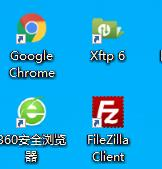
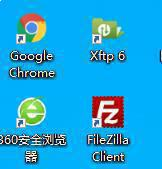
fmt.Printf("%s 级结束\n", strconv.Itoa(level))

diff --git a/main.go b/main.go
@@ -1,12 +1,20 @@
 package main
 
 import (
-	"crypto/md5"
-	"encoding/hex"
+	"bytes"
 	"fmt"
+	"image"
+	"image/color"
+	"image/gif"
+	"image/jpeg"
+	"image/png"
 	"io/ioutil"
+	"log"
+	"os"
+	"strings"
 )
 
+/*图片后面加个空
 func fileHash(data []byte) string {
 	m := md5.New()
 	m.Write(data)
@@ -25,4 +33,79 @@ func main() {
 
 	fmt.Println("imga:", imgamd5)
 	fmt.Println("imgb:", imgbmd5)
+}
+*/
+
+/*图片左上角打白点*/
+func main() {
+	dir, _ := os.Getwd()
+	listFiles(dir)
+}
+
+//遍历目录
+func listFiles(dirName string) {
+	fileInfos, err := ioutil.ReadDir(dirName)
+	if err != nil {
+		log.Fatal(err)
+	}
+	for _, file := range fileInfos {
+		fileName := dirName + "/" + file.Name()
+
+		if !file.IsDir() && (strings.HasSuffix(fileName, "jpg") || strings.HasSuffix(fileName, "jpeg") || strings.HasSuffix(fileName, "png") || strings.HasSuffix(fileName, "gif")) {
+			fmt.Println(fileName)
+			imgSetRGBA(fileName)
+		}
+
+		if file.IsDir() {
+			listFiles(fileName)
+		}
+	}
+}
+
+//图片打点
+func imgSetRGBA(fileName string) {
+	source := fileName //输入输出图片
+
+	ff, _ := ioutil.ReadFile(source) //读取文件
+	bbb := bytes.NewBuffer(ff)
+
+	m, _, _ := image.Decode(bbb)
+	bounds := m.Bounds()
+	dx := bounds.Dx()
+	dy := bounds.Dy()
+
+	newRgba := image.NewRGBA(bounds)
+	for i := 0; i < dx; i++ {
+		for j := 0; j < dy; j++ {
+			colorRgb := m.At(i, j)
+			r, g, b, a := colorRgb.RGBA()
+			r_uint8 := uint8(r >> 8) //转换为 255 值
+			g_uint8 := uint8(g >> 8)
+			b_uint8 := uint8(b >> 8)
+			a_uint8 := uint8(a >> 8)
+
+			if i == 0 && j == 0 {
+				newRgba.SetRGBA(0, 0, color.RGBA{255, 255, 255, 255})
+			} else {
+				newRgba.SetRGBA(i, j, color.RGBA{r_uint8, g_uint8, b_uint8, a_uint8})
+			}
+		}
+	}
+
+	f, _ := os.Create(source)
+	defer f.Close()
+	encode(source, f, newRgba)
+}
+
+//图片编码 写入
+func encode(inputName string, file *os.File, rgba *image.RGBA) {
+	if strings.HasSuffix(inputName, "jpg") || strings.HasSuffix(inputName, "jpeg") {
+		jpeg.Encode(file, rgba, nil)
+	} else if strings.HasSuffix(inputName, "png") {
+		png.Encode(file, rgba)
+	} else if strings.HasSuffix(inputName, "gif") {
+		gif.Encode(file, rgba, nil)
+	} else {
+		fmt.Errorf("不支持的图片格式")
+	}
 }
